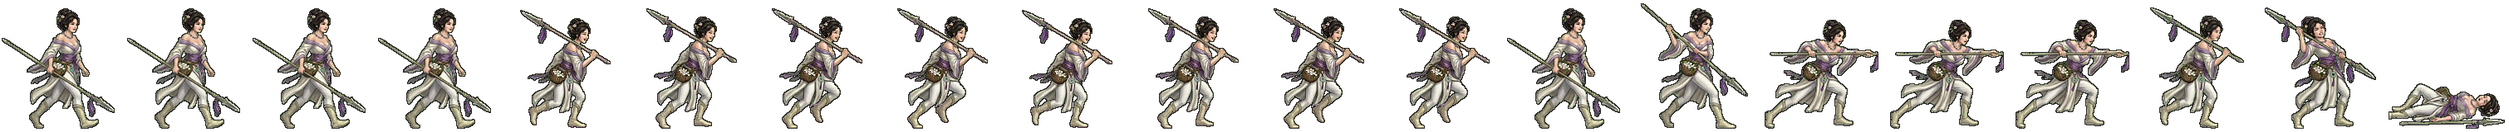
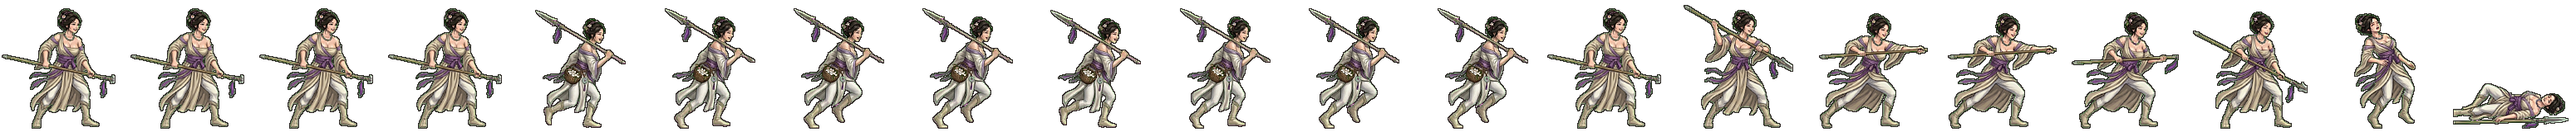
전투 띠 새로: 오디 동작 띠 다시 — 창 가운데를 두 손으로 잡고 창날이 보이게 찌른다 (SPEAR 절 · 검수 1번) (형 11-08)
Claude-Session: https://claude.ai/code/session_01TRiuNAG8xSjdmjCFpc8Rd5

diff --git a/src/ui/realm/battle-strikes.ts b/src/ui/realm/battle-strikes.ts
@@ -143,7 +143,7 @@ const CONTACT: Readonly<Record<string, [number, number, number]>> = {
   'gen-haebi': [14, 0.87, 0.53], 'gen-heo': [14, 0.94, 0.46], 'gen-hyeokgeose': [14, 0.83, 0.94],
   'gen-hyeopbo': [14, .93, .21], 'gen-malgalgi': [14, 0.88, 0.28], 'gen-mari': [14, .98, .47],
   'gen-oi': [14, .98, .48], 'gen-onjo': [14, 0.83, 0.93], 'gen-soebi': [14, 0.80, 0.95],
-  'gen-soseono': [14, 0.92, 0.31], 'gen-maryeo': [14, 0.91, 0.79], 'gen-horselord': [14, 0.89, 0.25], 'gen-olddaeso': [14, 0.93, 0.91], 'gen-maro': [14, 0.97, 0.49], 'gen-gwaeyu': [14, 0.98, 0.71], 'gen-daemusin': [14, 0.91, 0.38], 'gen-tahae': [14, 0.91, 0.74], 'gen-ocheongan': [14, 0.82, 0.49], 'gen-yusugan': [14, 0.95, 0.70], 'gen-odogan': [14, 0.93, 0.28], 'gen-pidogan': [14, 0.94, 0.75], 'gen-yeodogan': [14, 0.93, 0.57], 'gen-adogan': [14, 0.95, 0.41], 'gen-musoe': [14, 0.94, 0.39], 'gen-suro': [14, 0.82, 0.53], 'gen-waechief': [14, 0.95, 0.68], 'gen-hojin': [14, 0.97, 0.64], 'gen-jita': [14, 0.94, 0.34], 'gen-guryema': [14, 0.89, 0.28], 'gen-jibaekho': [14, 0.97, 0.33], 'gen-sobeol': [14, 0.95, 0.33], 'gen-alpyeong': [14, 0.95, 0.54], 'gen-hogong': [14, 0.98, 0.27], 'gen-geumbawi': [14, 0.91, 0.92], 'gen-keundol': [14, 0.90, 0.68], 'gen-jinha': [14, 0.76, 0.93], 'gen-duman': [14, 0.97, 0.39], 'gen-gomok': [14, 0.94, 0.57], 'gen-hneoul': [14, 0.92, 0.27], 'gen-tneoul': [14, 0.84, 0.57], 'gen-sdallae': [14, 0.89, 0.29], 'gen-yucheongan': [14, 0.97, 0.64], 'gen-sincheongan': [14, 0.91, 0.71], 'gen-singwigan': [14, 0.91, 0.27], 'gen-mdallae': [14, 0.98, 0.30], 'gen-mulbeom': [14, 0.97, 0.36], 'gen-beomi': [14, 0.88, 0.43], 'gen-danbi': [14, 0.90, 0.30], 'gen-mulsae': [14, 0.93, 0.36], 'gen-darae': [14, 0.89, 0.29], 'gen-mir': [14, 0.91, 0.33], 'gen-wan': [14, 0.94, 0.30], 'gen-gom': [14, 0.94, 0.74], 'gen-sagong': [14, 0.79, 0.96], 'gen-halla': [14, 0.86, 0.46], 'gen-areum': [14, 0.86, 0.65], 'gen-dokmudeom': [14, 0.92, 0.29], 'gen-beom': [14, 0.98, 0.28], 'gen-baram': [14, 0.96, 0.24], 'gen-goeun': [14, 0.95, 0.66], 'gen-byeol': [14, 0.76, 0.96], 'gen-sinneoul': [14, 0.94, 0.33], 'gen-haesol': [14, 0.91, 0.47], 'gen-odi': [14, 0.96, 0.46], 'gen-irang': [14, 0.86, 0.30], 'gen-dalli': [14, 0.89, 0.32], 'gen-bakdal': [14, 0.94, 0.27], 'gen-noeul': [14, 0.88, 0.27], 'gen-maehwa': [14, 0.90, 0.31], 'gen-gaon': [14, 0.98, 0.59], 'gen-eomni': [14, 0.96, 0.42], 'gen-nuri': [14, 0.93, 0.66], 'gen-bira': [14, 0.88, 0.33], 'gen-gureum': [14, 0.98, 0.42],
+  'gen-soseono': [14, 0.92, 0.31], 'gen-maryeo': [14, 0.91, 0.79], 'gen-horselord': [14, 0.89, 0.25], 'gen-olddaeso': [14, 0.93, 0.91], 'gen-maro': [14, 0.97, 0.49], 'gen-gwaeyu': [14, 0.98, 0.71], 'gen-daemusin': [14, 0.91, 0.38], 'gen-tahae': [14, 0.91, 0.74], 'gen-ocheongan': [14, 0.82, 0.49], 'gen-yusugan': [14, 0.95, 0.70], 'gen-odogan': [14, 0.93, 0.28], 'gen-pidogan': [14, 0.94, 0.75], 'gen-yeodogan': [14, 0.93, 0.57], 'gen-adogan': [14, 0.95, 0.41], 'gen-musoe': [14, 0.94, 0.39], 'gen-suro': [14, 0.82, 0.53], 'gen-waechief': [14, 0.95, 0.68], 'gen-hojin': [14, 0.97, 0.64], 'gen-jita': [14, 0.94, 0.34], 'gen-guryema': [14, 0.89, 0.28], 'gen-jibaekho': [14, 0.97, 0.33], 'gen-sobeol': [14, 0.95, 0.33], 'gen-alpyeong': [14, 0.95, 0.54], 'gen-hogong': [14, 0.98, 0.27], 'gen-geumbawi': [14, 0.91, 0.92], 'gen-keundol': [14, 0.90, 0.68], 'gen-jinha': [14, 0.76, 0.93], 'gen-duman': [14, 0.97, 0.39], 'gen-gomok': [14, 0.94, 0.57], 'gen-hneoul': [14, 0.92, 0.27], 'gen-tneoul': [14, 0.84, 0.57], 'gen-sdallae': [14, 0.89, 0.29], 'gen-yucheongan': [14, 0.97, 0.64], 'gen-sincheongan': [14, 0.91, 0.71], 'gen-singwigan': [14, 0.91, 0.27], 'gen-mdallae': [14, 0.98, 0.30], 'gen-mulbeom': [14, 0.97, 0.36], 'gen-beomi': [14, 0.88, 0.43], 'gen-danbi': [14, 0.90, 0.30], 'gen-mulsae': [14, 0.93, 0.36], 'gen-darae': [14, 0.89, 0.29], 'gen-mir': [14, 0.91, 0.33], 'gen-wan': [14, 0.94, 0.30], 'gen-gom': [14, 0.94, 0.74], 'gen-sagong': [14, 0.79, 0.96], 'gen-halla': [14, 0.86, 0.46], 'gen-areum': [14, 0.86, 0.65], 'gen-dokmudeom': [14, 0.92, 0.29], 'gen-beom': [14, 0.98, 0.28], 'gen-baram': [14, 0.96, 0.24], 'gen-goeun': [14, 0.95, 0.66], 'gen-byeol': [14, 0.76, 0.96], 'gen-sinneoul': [14, 0.94, 0.33], 'gen-haesol': [14, 0.91, 0.47], 'gen-odi': [14, 0.95, 0.37], 'gen-irang': [14, 0.86, 0.30], 'gen-dalli': [14, 0.89, 0.32], 'gen-bakdal': [14, 0.94, 0.27], 'gen-noeul': [14, 0.88, 0.27], 'gen-maehwa': [14, 0.90, 0.31], 'gen-gaon': [14, 0.98, 0.59], 'gen-eomni': [14, 0.96, 0.42], 'gen-nuri': [14, 0.93, 0.66], 'gen-bira': [14, 0.88, 0.33], 'gen-gureum': [14, 0.98, 0.42],
   'gen-biryu': [14, 0.90, 0.35], 'gen-geumha': [14, 0.94, 0.61], 'gen-geota': [14, 0.86, 0.47], 'gen-soebo': [14, 0.87, 0.57],
   'gen-gaennae': [14, 249 / 264, 47 / 160],
   'gen-budeul': [14, 266 / 280, 51 / 160],

diff --git a/src/realm/data/art.ts b/src/realm/data/art.ts
@@ -518,7 +518,7 @@ export const GEN_ANIM: Readonly<Partial<Record<string, { ar: number; body: numbe
   nuri: { ar: 170 / 160, body: 0.894 }, // 11-08 초상대로 다시 (형: 「투구 쓰고 원본과 다르다」 · 제미나이 걷기 4×2 + 동작 4×2 → 20컷 · assets_src/realm/gemini/generals2) · 11-08 처음 · 구가 누리 동작 다시 — 창을 두 손으로 잡고 아래로 찌른다 (빈 주먹·창날 없는 찌르기 고침 · 제미나이 u/2 · 11-09 띠 검수)
   bira: { ar: 156 / 160, body: 0.900 }, // 11-08 초상대로 다시 (형: 「투구 쓰고 원본과 다르다」 · 제미나이 걷기 4×2 + 동작 4×2 → 20컷 · assets_src/realm/gemini/generals2) · 11-08 처음 · 푸른 깃 머리띠·푸른 짧은 조끼·밧줄 타래·조개 목걸이·작살 창 찌르기 · 걷기는 아랫줄만
   soenun: { ar: 280 / 160, body: 0.9375 }, // 11-08 쇠눈 · 제미나이 u/2 2×2(겨눔·찌르기·거둠·피격) + 새 대화 쓰러짐 · 갯내 4실보행 하체(짙은 바지 · 걷는 동안 쇠 정강이받이는 장화로 보인다) · 창 자루는 걷기에도 남긴다
-  odi: { ar: 151 / 160, body: 0.900 }, // 11-08 초상대로 다시 (형: 「투구 쓰고 원본과 다르다」 · 제미나이 걷기 4×2 + 동작 4×2 → 20컷 · assets_src/realm/gemini/generals2) · 11-08 처음 · 조문 오디 동작 다시 — 창을 두 손으로 잡고 앞으로 찌른다 (빈 주먹 찌르기 고침 · 제미나이 u/0 · 11-09 띠 검수)
+  odi: { ar: 155 / 160, body: 0.906 }, // 11-08 초상대로 다시 (형: 「투구 쓰고 원본과 다르다」 · 제미나이 걷기 4×2 + 동작 4×2 → 20컷 · assets_src/realm/gemini/generals2) · 11-08 처음 · 오디 동작 띠 다시 — 창 가운데를 두 손으로 잡고 창날이 보이게 찌른다 (SPEAR 절 · 검수 1번)
   haesol: { ar: 197 / 160, body: 0.900 }, // 11-08 초상대로 다시 (형: 「투구 쓰고 원본과 다르다」 · 제미나이 걷기 4×2 + 동작 4×2 → 20컷 · assets_src/realm/gemini/generals2) · 11-08 처음 · 우스 해솔 동작 다시 — 창날을 앞으로 찌른다 (빈 주먹 찌르기 고침 · 제미나이 u/0 · 11-09 띠 검수)
   sinneoul: { ar: 163 / 160, body: 0.906 }, // 11-08 초상대로 다시 (형: 「투구 쓰고 원본과 다르다」 · 제미나이 걷기 4×2 + 동작 4×2 → 20컷 · assets_src/realm/gemini/generals2) · 11-08 처음 · 신지 너울(젖은 긴 머리·묶어 입은 흰 삼베 윗옷·짧은 바지·그물 주머니·갈고리 작살 · 맨발)
   byeol: { ar: 155 / 160, body: 0.906 }, // 11-08 초상대로 다시 (형: 「투구 쓰고 원본과 다르다」 · 제미나이 걷기 4×2 + 동작 4×2 → 20컷 · assets_src/realm/gemini/generals2) · 11-08 처음 · 벽진 별(땋은 머리·흰 민소매에 가죽 대장장이 앞치마·맨발·달군 쇠칼 내려치기)
